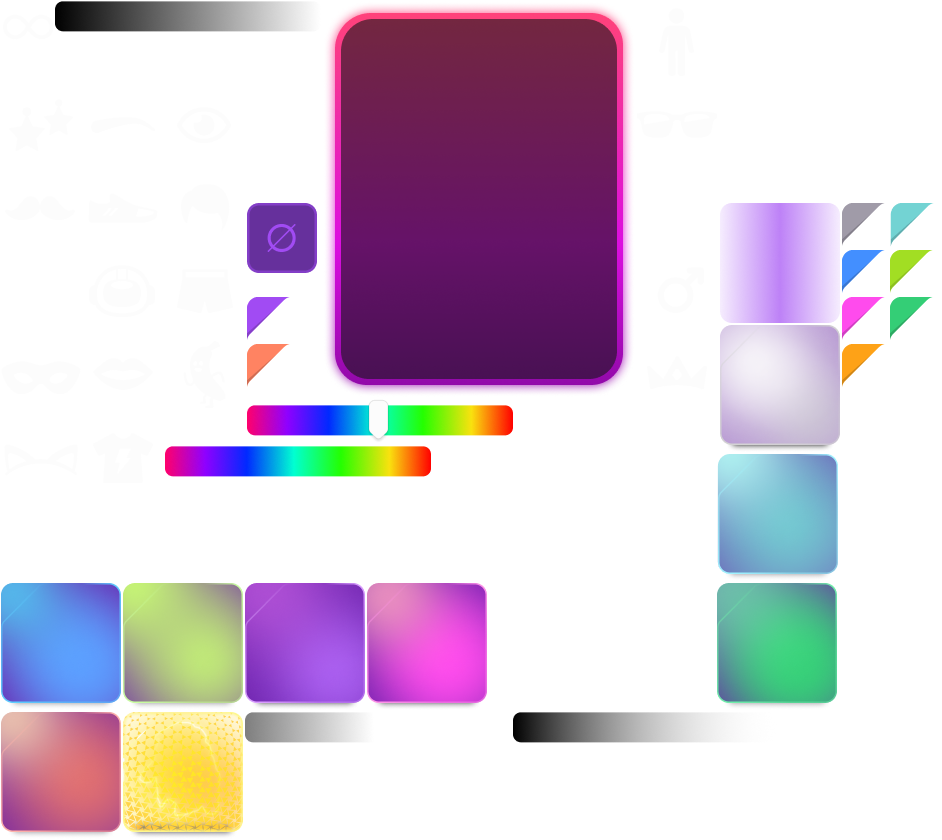
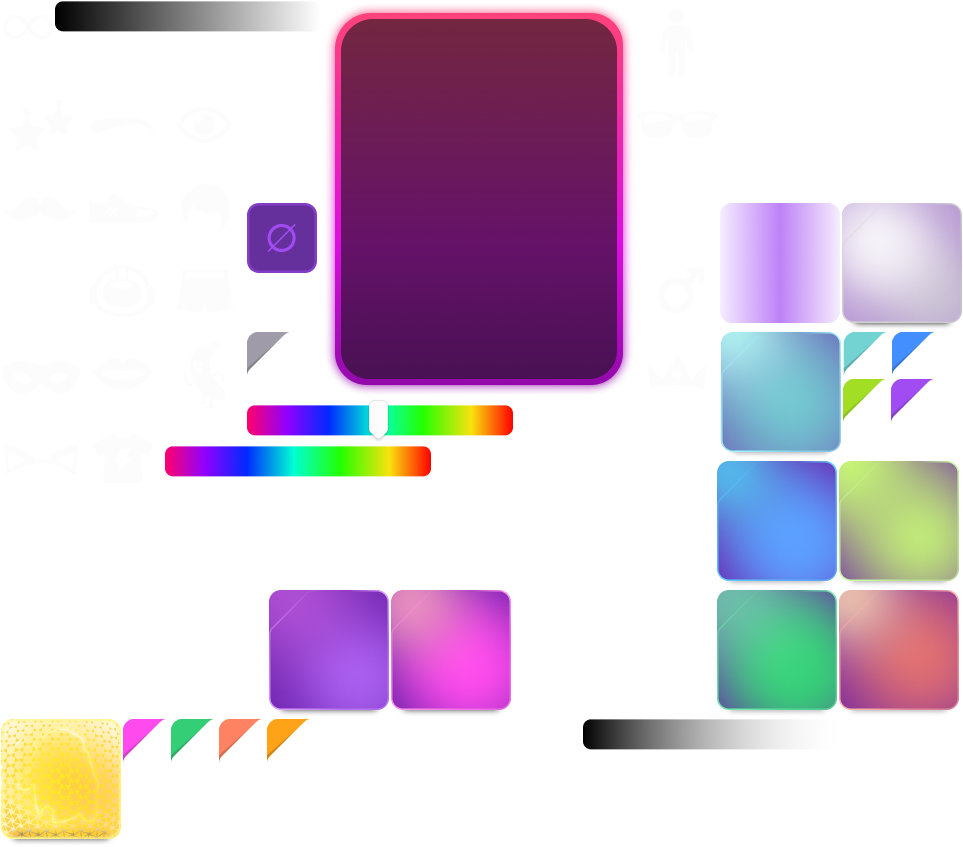
feat: backpack WIP: fix saturation slider

Changed region(s): [[0.0, 0.2167, 1.0, 1.0], [0.1539, 0.0, 0.6773, 0.5881]]

diff --git a/scene/src/ui-classes/main-menu/backpack-page/WearableColorPicker.tsx b/scene/src/ui-classes/main-menu/backpack-page/WearableColorPicker.tsx
@@ -206,6 +206,7 @@ function ColorPickerDialog({
         color={COLOR.TEXT_COLOR}
         fontSize={canvasScaleRatio * 26}
       />
+
       <BasicSlider
         value={hsv.s}
         min={1}
@@ -219,7 +220,7 @@ function ColorPickerDialog({
             atlasName: 'backpack',
             spriteName: 'saturation-slider'
           }),
-          color: rawColor
+          color: Color4.create(...rgbToArray(hsvToRgb(hsv.h, 0, hsv.v)))
         }}
         onChange={(newValue) => {
           const avatarBase = store.getState().backpack.outfitSetup.base
@@ -229,8 +230,22 @@ function ColorPickerDialog({
           }
           updateAvatar(payload)
         }}
-      />
-
+      >
+        <UiEntity
+          uiTransform={{
+            width: '100%',
+            height: '100%',
+            positionType: 'absolute'
+          }}
+          uiBackground={{
+            ...getBackgroundFromAtlas({
+              atlasName: 'backpack',
+              spriteName: 'mask-slider'
+            }),
+            color: rawColor
+          }}
+        />
+      </BasicSlider>
       <Label
         value={'<b>BRIGHTNESS</b>'}
         color={COLOR.TEXT_COLOR}

diff --git a/scene/src/components/slider/BasicSlider.tsx b/scene/src/components/slider/BasicSlider.tsx
@@ -9,6 +9,7 @@ import { noop } from '../../utils/function-utils'
 import { Color4 } from '@dcl/sdk/math'
 
 type BasicSliderProps = {
+  children?: ReactElement
   value: number
   uiTransform: UiTransformProps
   min?: number
@@ -20,6 +21,7 @@ type BasicSliderProps = {
 const MOUSE_VELOCITY = 0.1
 
 export function BasicSlider({
+  children,
   min = 0,
   max = 1,
   value,
@@ -31,6 +33,7 @@ export function BasicSlider({
   const percentage = Math.min(100, Math.max(0, (value * 100) / max))
   return (
     <UiEntity uiTransform={uiTransform}>
+      {children}
       <UiEntity
         uiTransform={{
           width: '100%',
